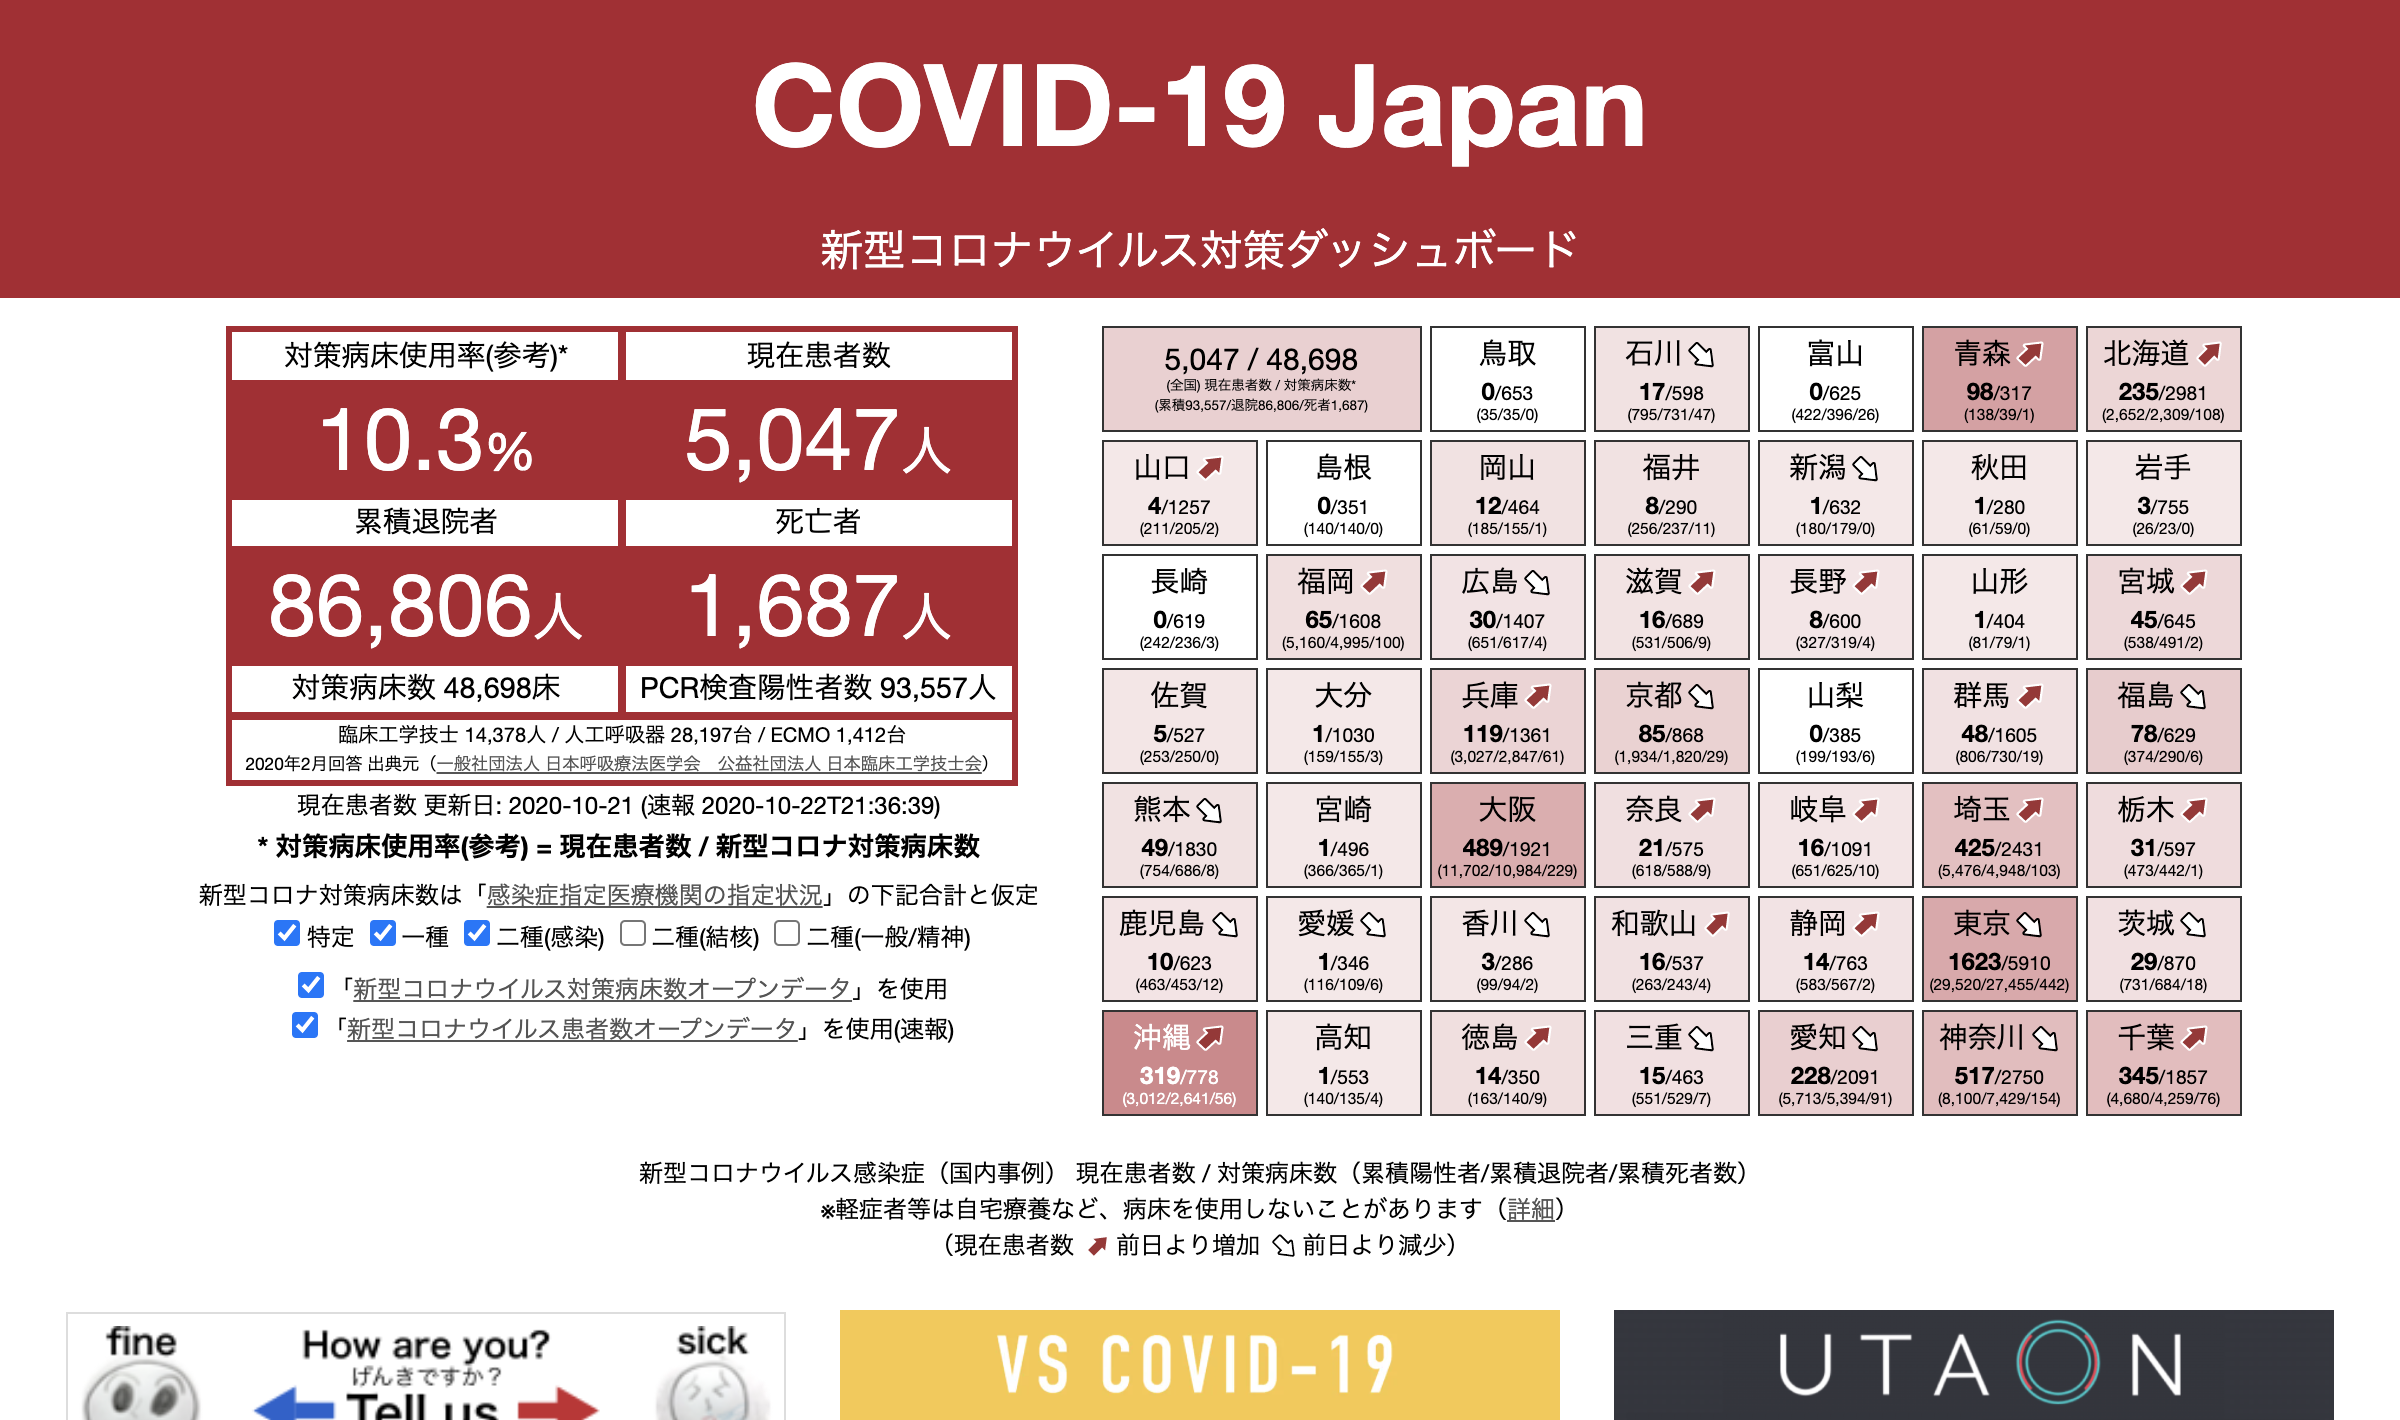
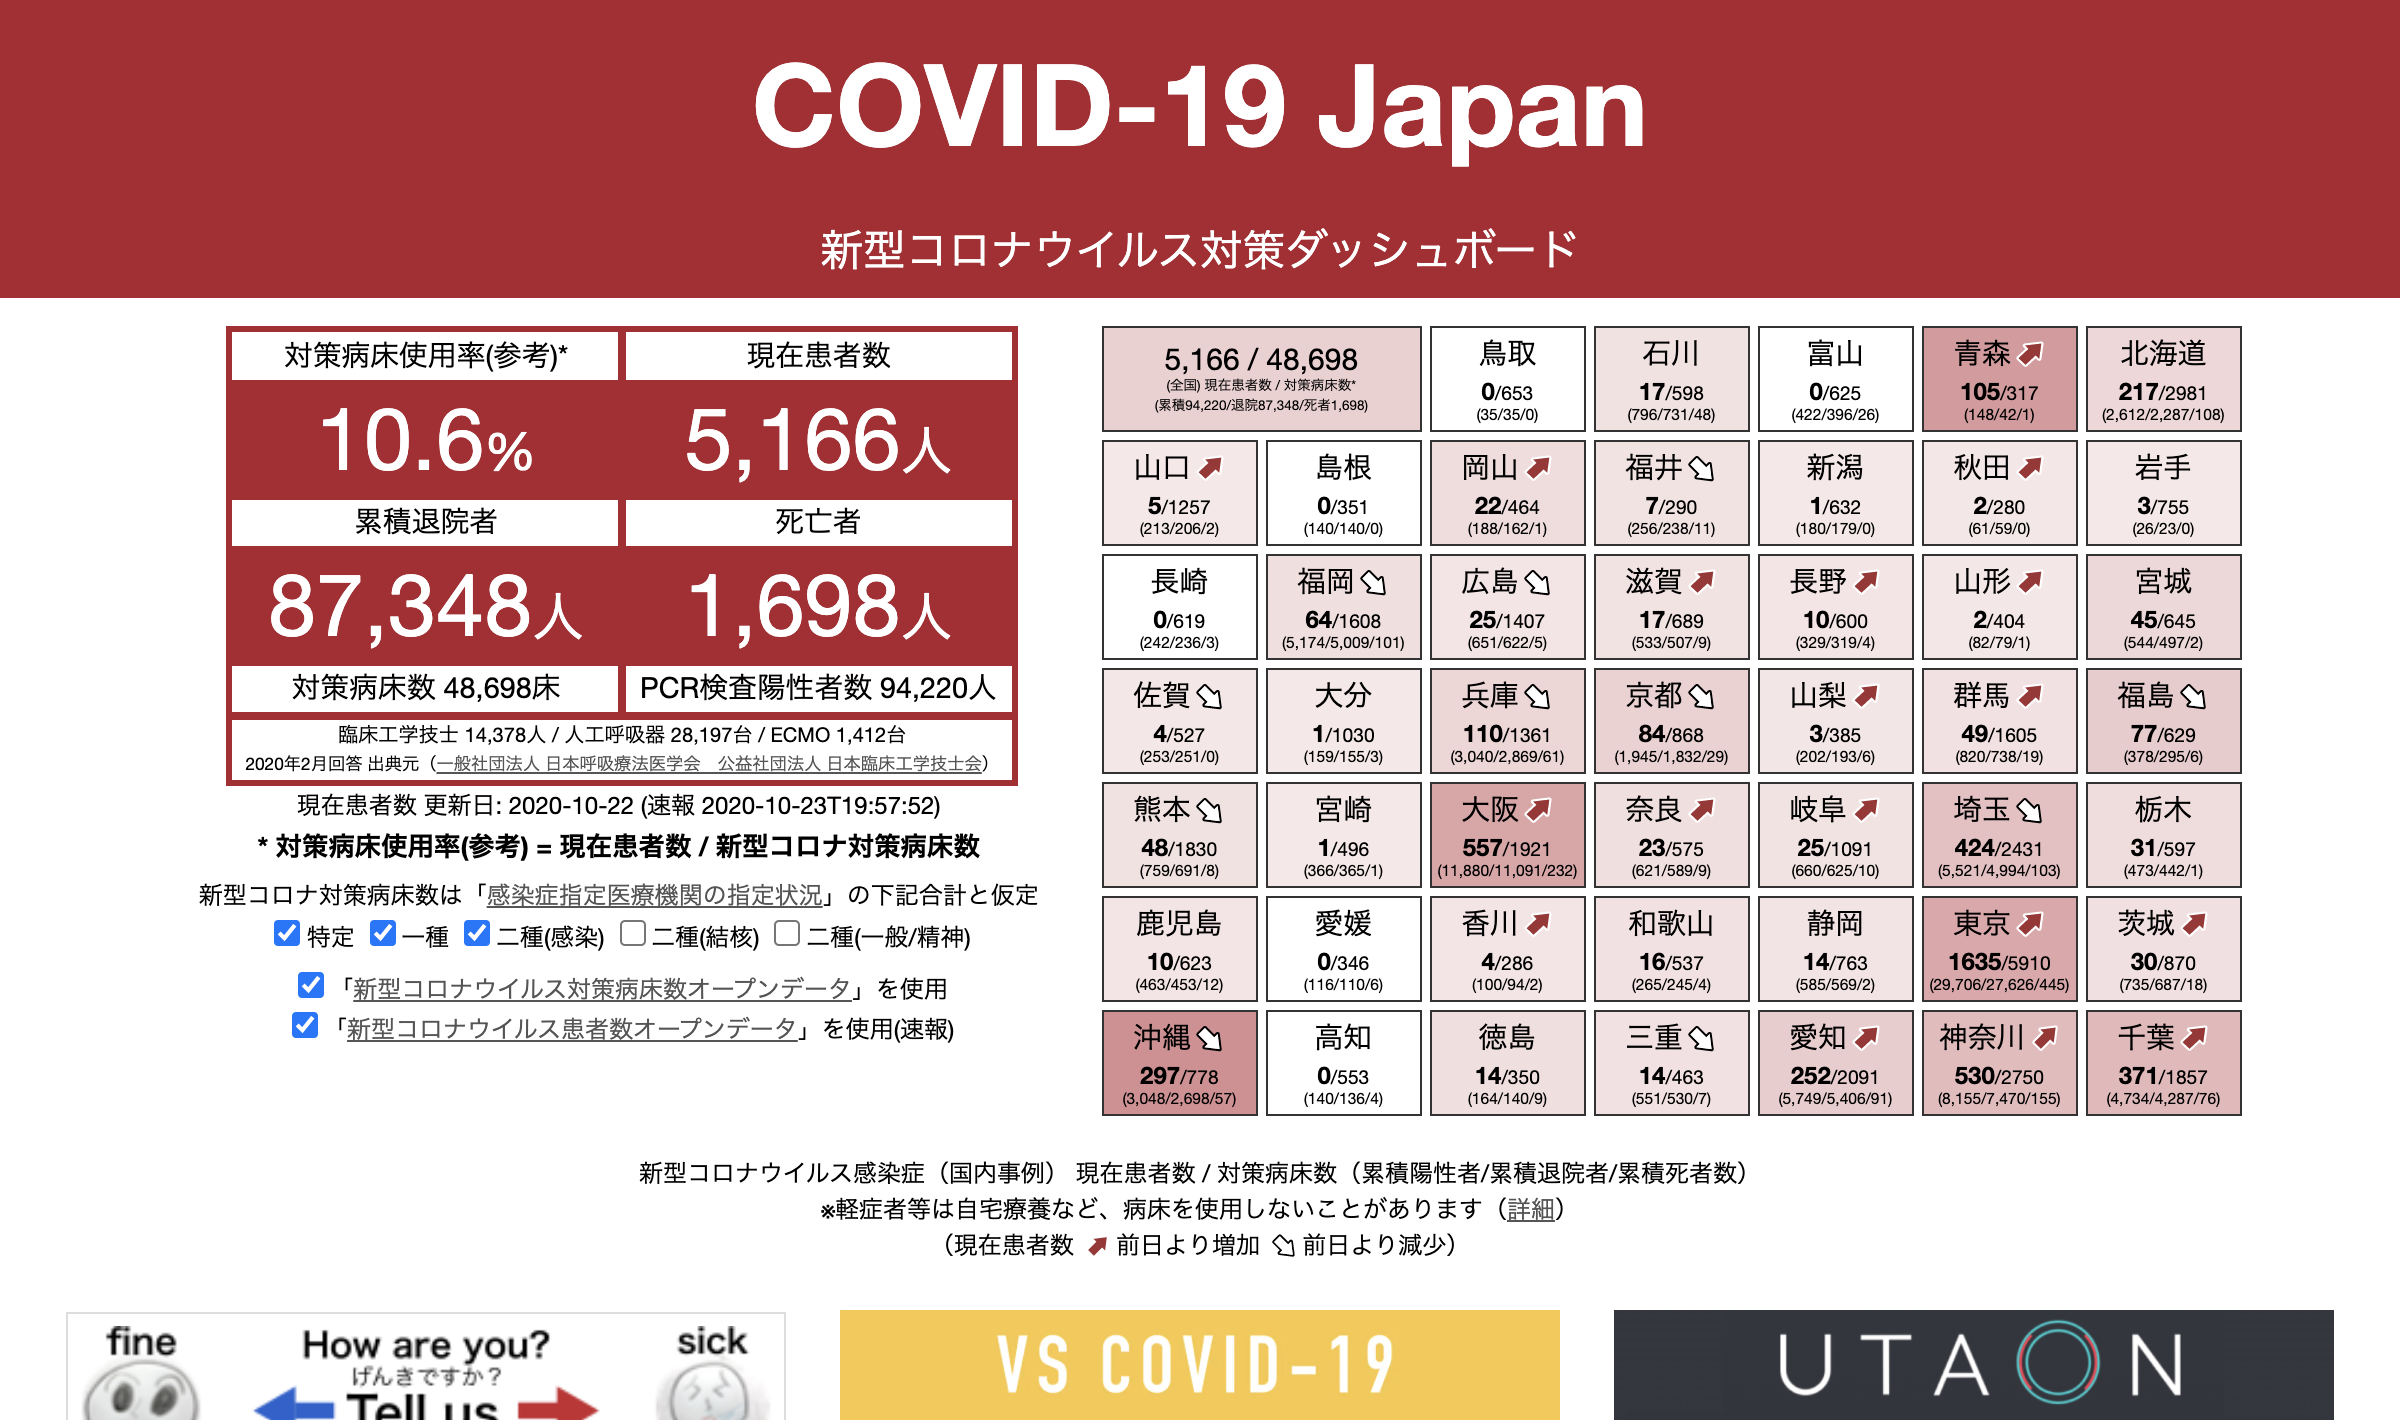
update data

diff --git a/index.html b/index.html
@@ -19,8 +19,8 @@ gtag('config', 'UA-162141832-1')
 <link rel="apple-touch-icon" href="covid19japan-leargeicon.png"/>
 <meta name="msapplication-square310x310logo" content="covid19japan-leargeicon.png"/>
 <meta name="twitter:card" content="summary_large_image"/>
-<meta property="og:image"  content="https://www.stopcovid19.jp/ogp/covid19japan_ogp_20201022231140.png"/>
-<meta name="twitter:image" content="https://www.stopcovid19.jp/ogp/covid19japan_ogp_20201022231140.png"/>
+<meta property="og:image"  content="https://www.stopcovid19.jp/ogp/covid19japan_ogp_20201024002700.png"/>
+<meta name="twitter:image" content="https://www.stopcovid19.jp/ogp/covid19japan_ogp_20201024002700.png"/>
 
 <meta name="viewport" content="width=device-width, initial-scale=1.0"/>
 <meta name="format-detection" content="telephone=no"/>
